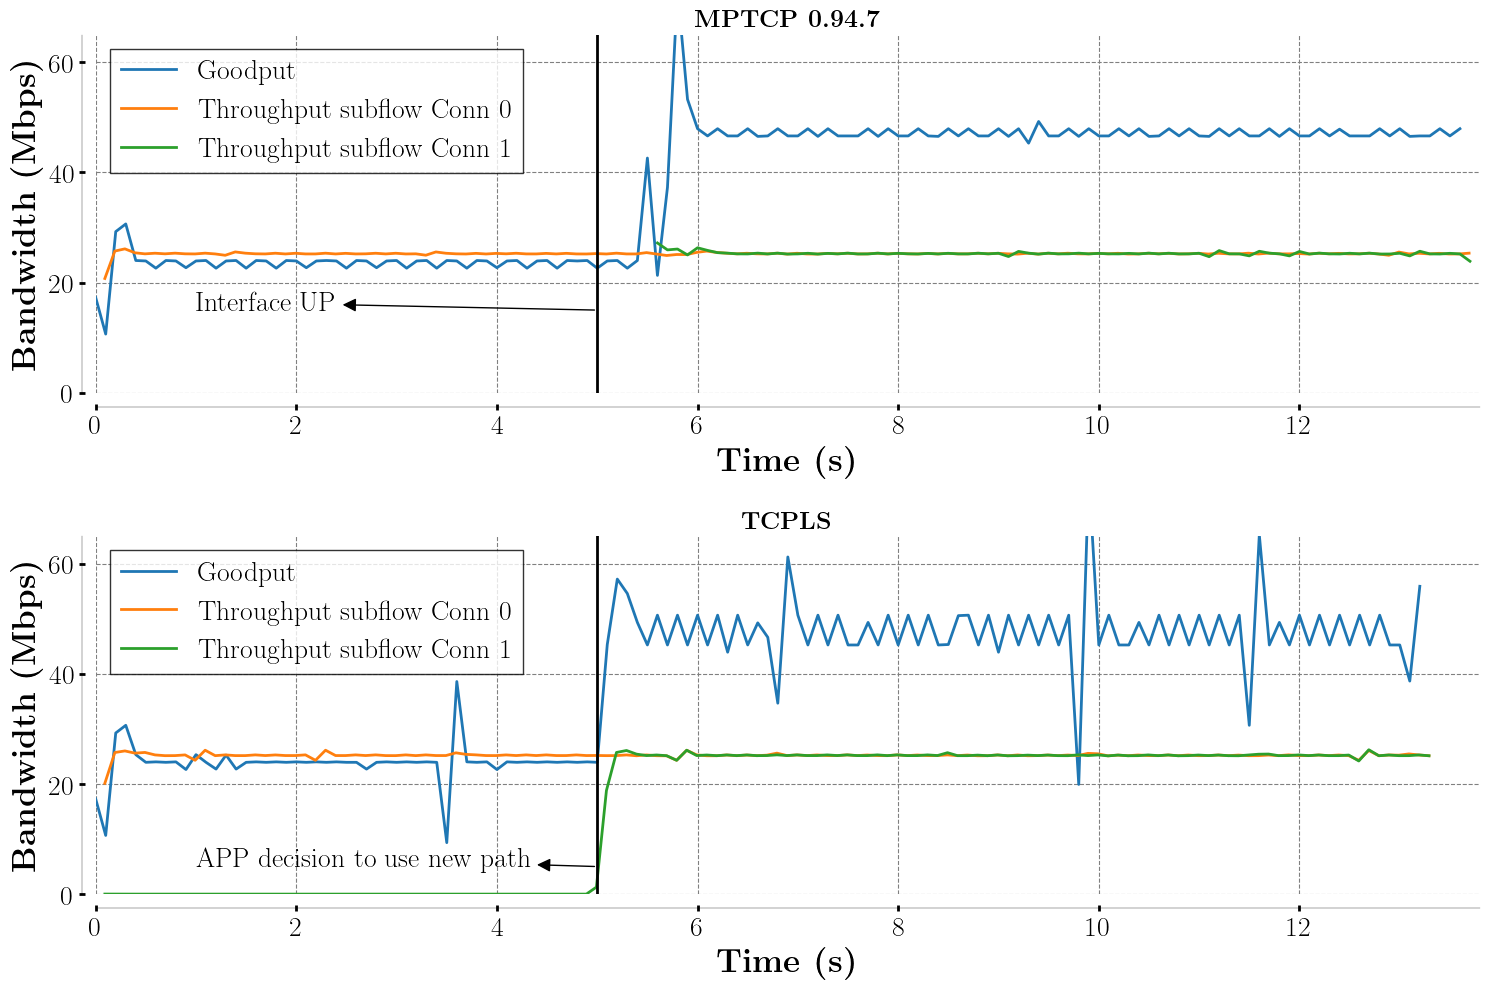
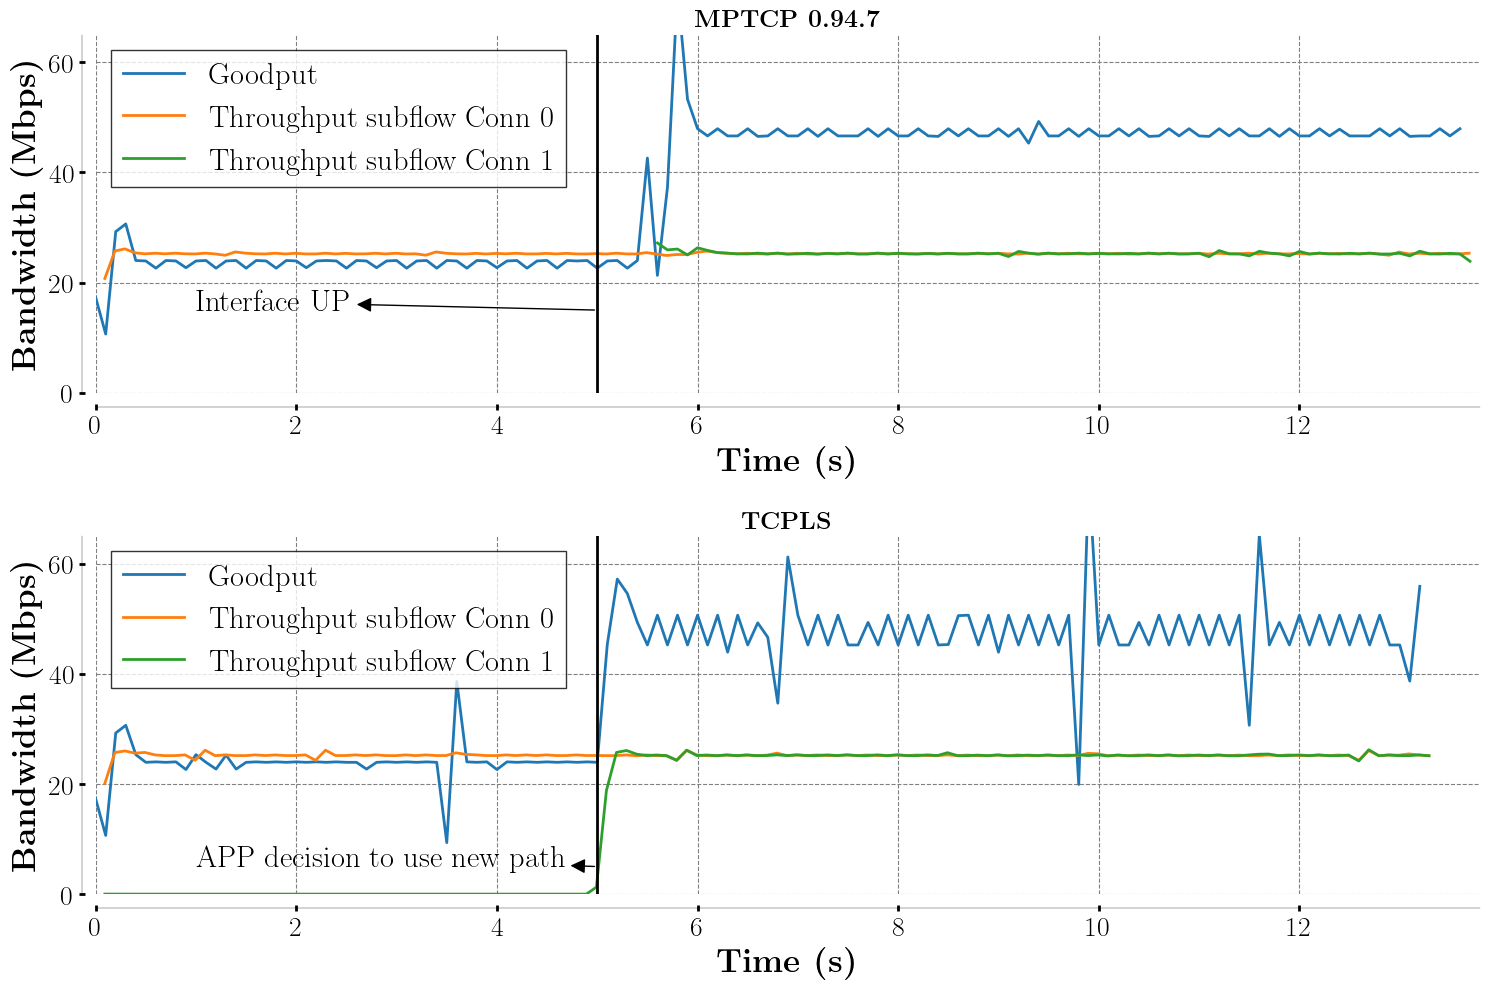
improve fig lisibility

diff --git a/pretty_plotify/plot_aggregate.py b/pretty_plotify/plot_aggregate.py
@@ -158,7 +158,7 @@ if __name__ == "__main__":
         ax.annotate(legend_label(args.event_text[counter]),
                     xy=((event-min_timing)/1000000, args.event_pos[counter]+counter*25),
                     xytext=(-0.4, (args.event_pos[counter]-0.5)+counter*25),
-                    arrowprops=dict(arrowstyle="<|-", color='black'), fontsize=12,
+                    arrowprops=dict(arrowstyle="<|-", color='black'), fontsize=14,
                     color='black')
         counter+=1
 
@@ -172,7 +172,7 @@ if __name__ == "__main__":
     else:
         ax.set_ylim(-1, 200)
 
-    plt.legend(loc='upper left', fontsize=12, edgecolor="black", fancybox=False)
+    plt.legend(loc='upper left', fontsize=14, edgecolor="black", fancybox=False)
     grid(True, color='gray', linestyle='dashed', which='major')
 
     savefig(args.oname+'.'+args.ext, bbox_inches='tight')

diff --git a/pretty_plotify/cubic_vegas.py b/pretty_plotify/cubic_vegas.py
@@ -31,7 +31,7 @@ if __name__ == "__main__":
     ax.annotate(legend_label('injection of eBPF CUBIC'),
                 xy=(117.561356, 12.116826),
                 xytext=(150, 12.116826),
-                arrowprops=dict(arrowstyle="<|-", color='black'), fontsize=12,
+                arrowprops=dict(arrowstyle="<|-", color='black'), fontsize=15,
                 color='black')
 
     ax.set_ylim(0, 100)
@@ -41,7 +41,7 @@ if __name__ == "__main__":
     ax.set_xlabel(latex_label('Time (s)'), fontsize=20)
     ax.set_ylabel(latex_label('Goodput (Mbps)'), fontsize=20)
 
-    plt.legend(loc='upper right', fontsize=12, edgecolor="black", fancybox=False)
+    plt.legend(loc='upper right', fontsize=15, edgecolor="black", fancybox=False)
     grid(True, color='gray', linestyle='dashed', which='major')
 
     savefig(args.oname+'.'+args.ext, bbox_inches='tight')

diff --git a/pretty_plotify/plot_aggregate_dual.py b/pretty_plotify/plot_aggregate_dual.py
@@ -160,7 +160,7 @@ if __name__ == "__main__":
         ax.annotate(legend_label(args.event_text[elem]),
                     xy=((event-min_timing_t)/1000000, args.event_pos[elem]),
                     xytext=(1, (args.event_pos[elem])),
-                    arrowprops=dict(arrowstyle="<|-", color='black'), fontsize=20,
+                    arrowprops=dict(arrowstyle="<|-", color='black'), fontsize=22,
                     color='black')
         elem+=1
 
@@ -168,7 +168,7 @@ if __name__ == "__main__":
     axis_aesthetic(axs[1])
 
     for ax in axs:
-        ax.legend(loc='upper left', fontsize=20, edgecolor="black", fancybox=False)
+        ax.legend(loc='upper left', fontsize=22, edgecolor="black", fancybox=False)
         ax.set_xlim(0, x_max)
         ax.set_ylim(0, 65)
         ax.set_xlabel(latex_label("Time (s)"), fontsize=24)

diff --git a/evaluation.tex b/evaluation.tex
@@ -564,7 +564,7 @@ and obtained similar results.
 
 \begin{figure}[!t]
   \begin{center}
-    \includegraphics[width=0.8\columnwidth]{pretty_plotify/plots/vegas_cubic.png}
+    \includegraphics[width=0.8\columnwidth]{figures/vegas_cubic.png}
   \end{center}
   \caption{\tcpls hosts can exchange eBPF congestion controllers and enable
   them during a \tcpls session.}
